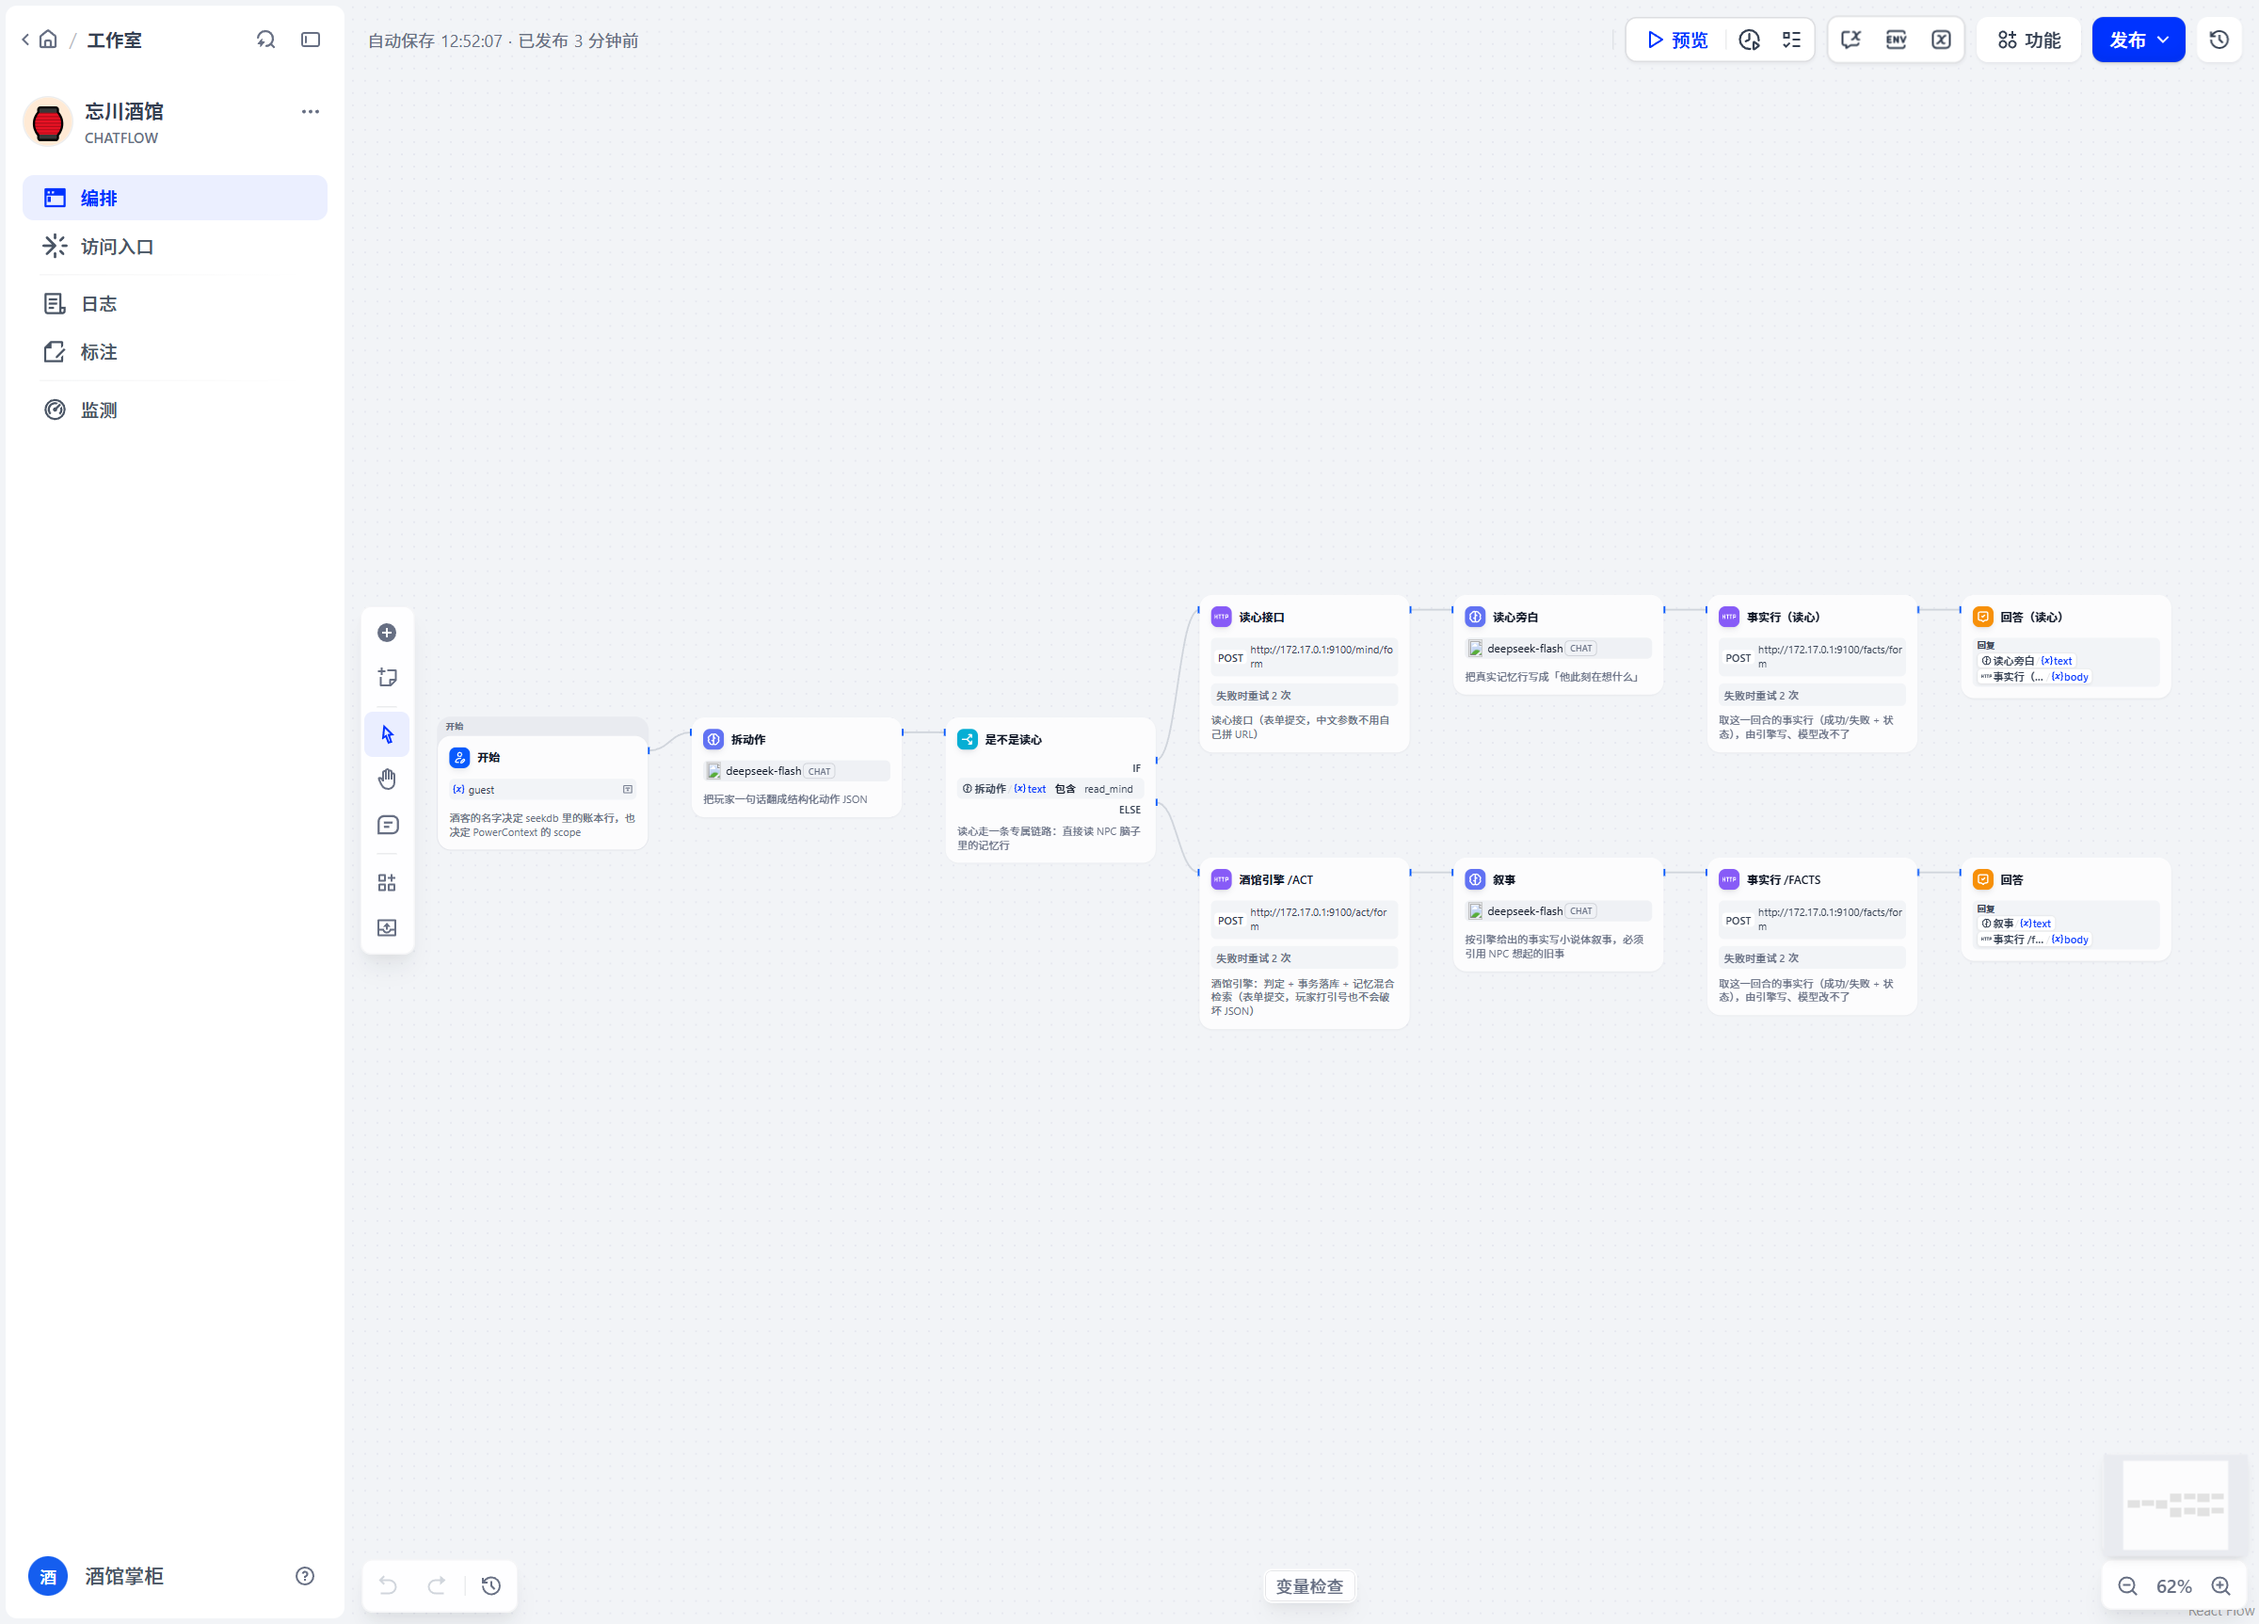
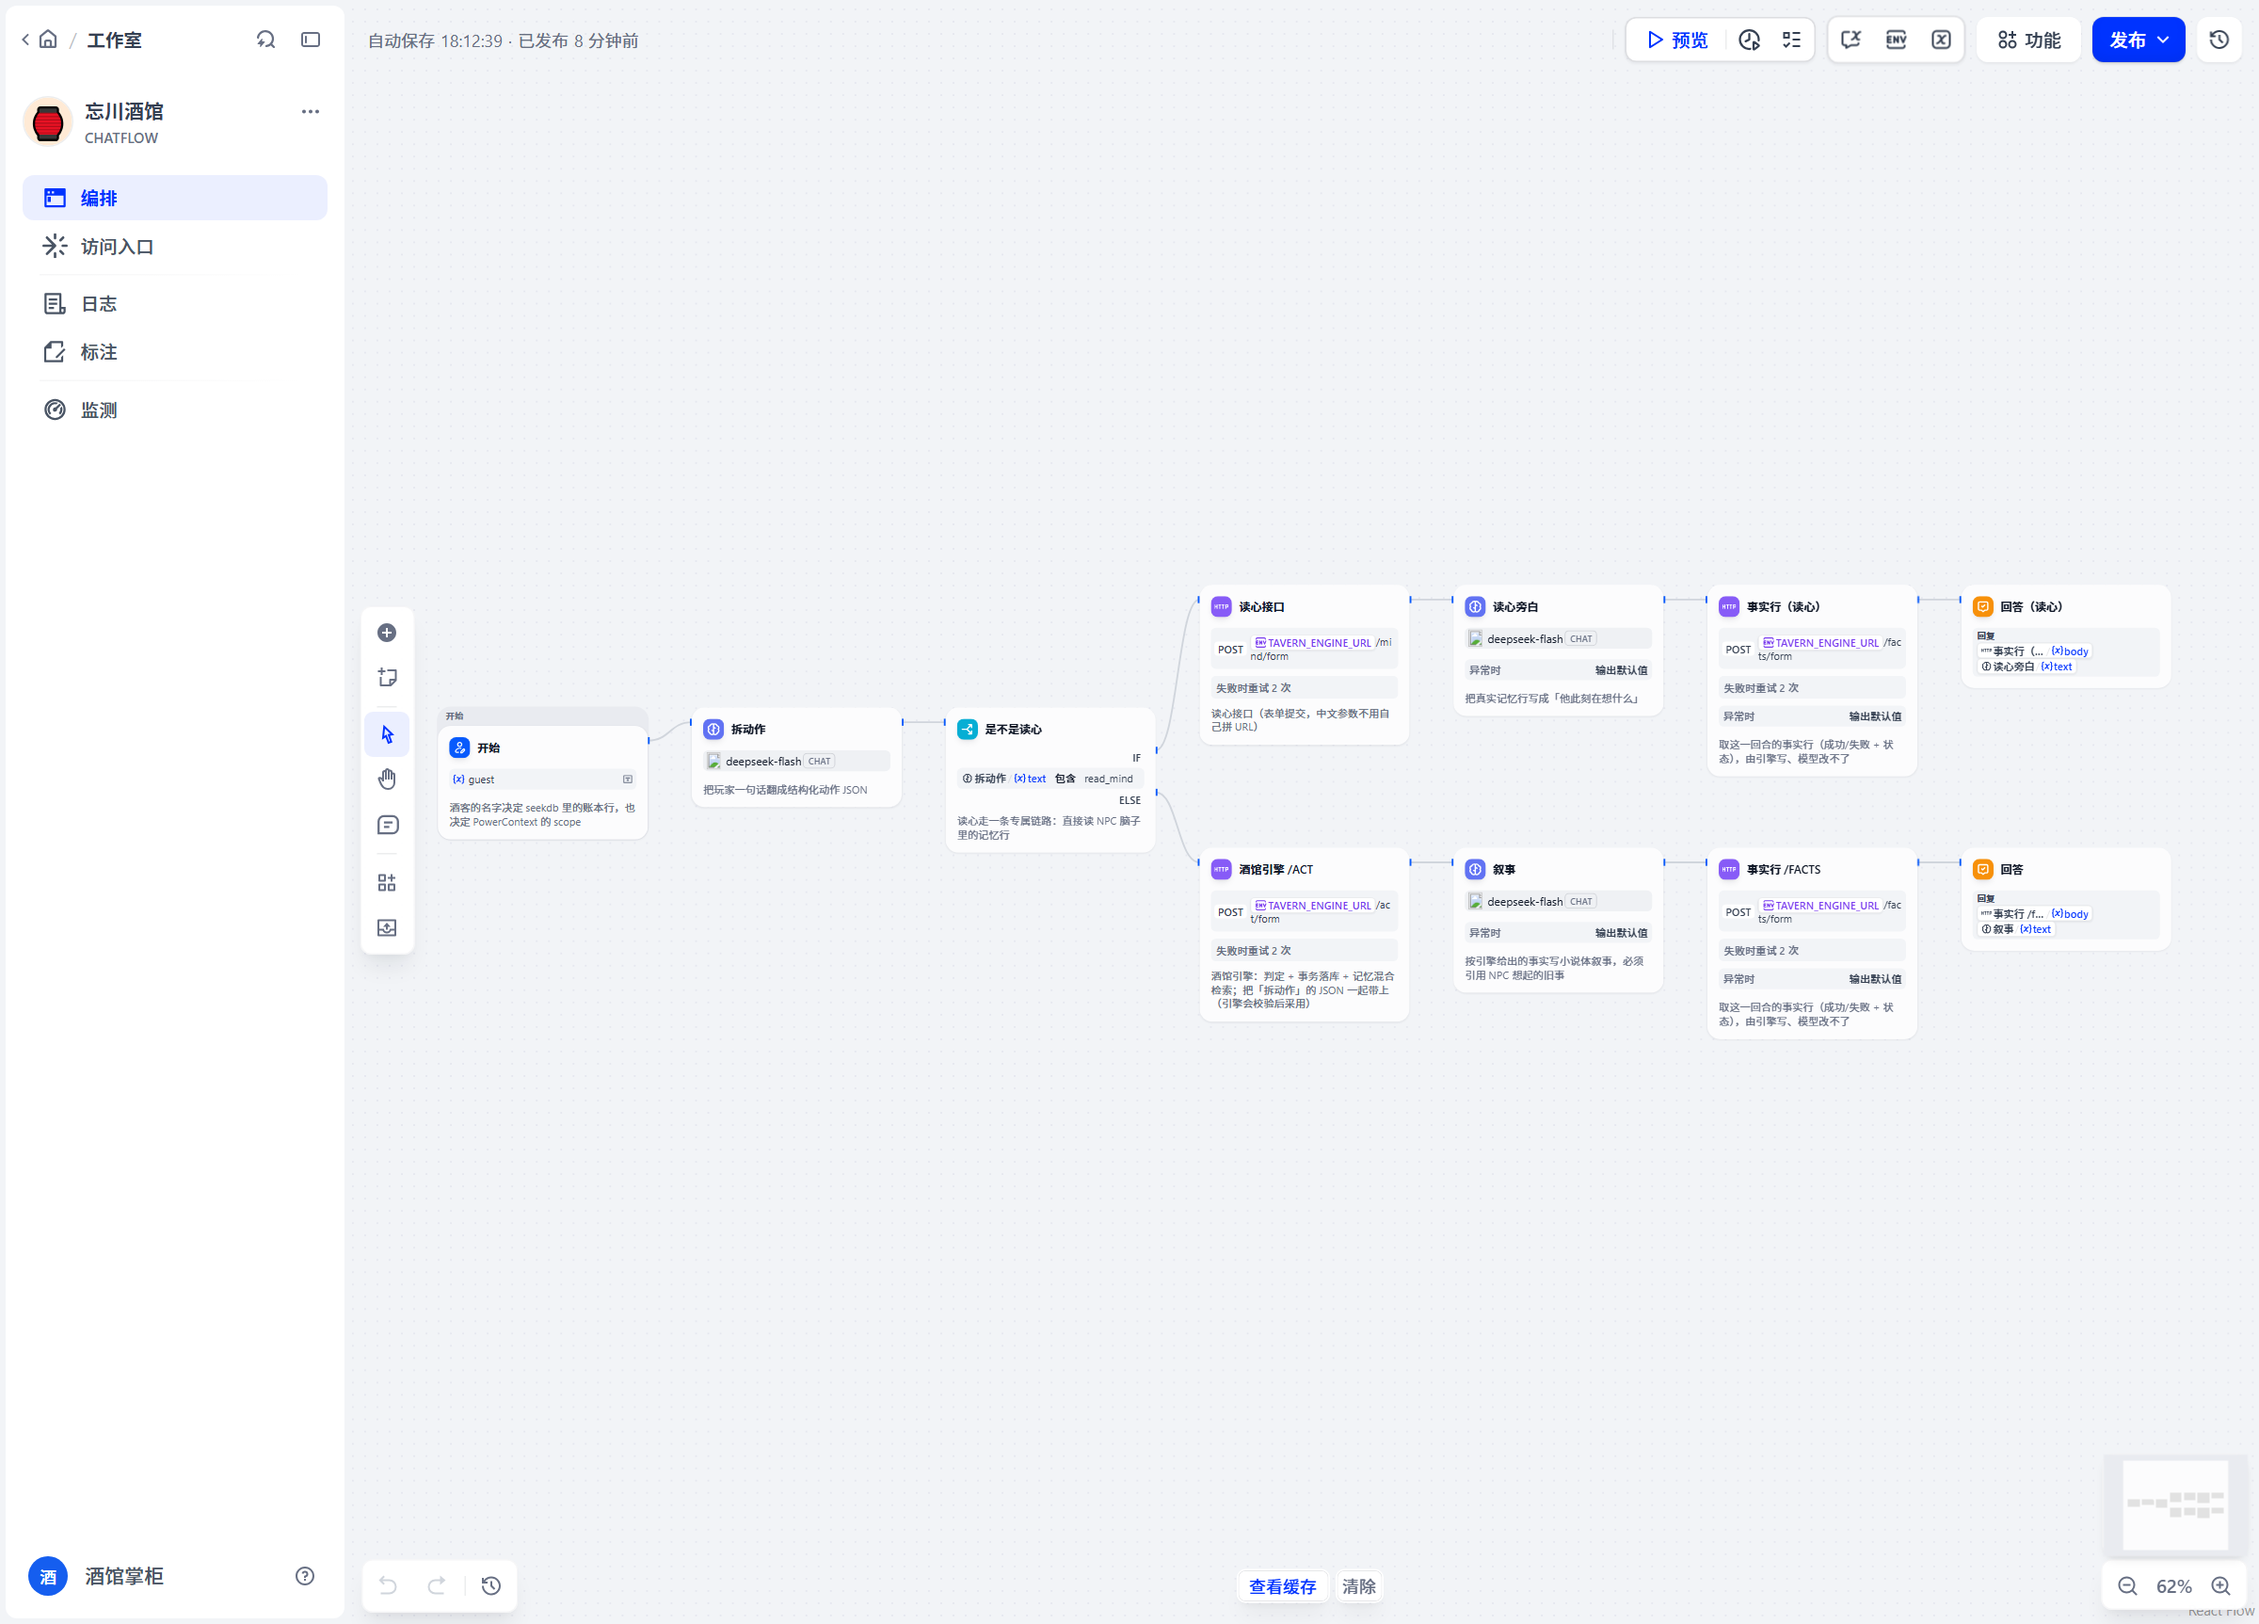
docs(dify): 把截图与 DSL 导出件全部刷新到当前版本（材料不能和实物对不上）
评审 FAQ 里有一条「导出的工作流与实际运行版本不一致」是常见失败原因。自查发现三处陈旧：

1. `docs/evidence/dify/dsl-export.yaml` 是加 `session` 字段之前导出的——README 却写着
   「与仓库 DSL 语义完全相同」。重新用 Dify 导出并逐字段比对：节点/连线/环境变量/features/
   每个节点的 model、url、body、answer、error_strategy、default_value 以及开场白 **0 处差异**。
2. 三张截图是旧回答格式（判定行在末尾）和旧开场白。已重拍：
   - `00-workflow-canvas.png`：11 节点编排
   - `01-new-conversation.png`：开场白（含「照着做就能看到三条规矩」引导）
   - `02-chat-memory.png`：买一壶桂花酿 → 回答**最前面**是判定行 +【阿箬的杯边话】，后面才是叙事
3. README / sample-walkthrough / limitations 里三处「回答末尾」改成「回答开头」，
   说明文案与新格式一致。

这轮没改玩法，改的是「提交材料必须与实际运行版本一致」。

diff --git a/dify/README.md b/dify/README.md
@@ -45,7 +45,7 @@
 2. **在事务里**改账本：铜板、好感、物品、风评、被记账次数；
 3. 让在场的 NPC **各写一条第一人称记忆**，还有概率变成传闻传播给没看见的人；
 4. **检索**此刻每个 NPC 会想起什么（全文 + 向量），把「想起的旧事」交给 Dify 写进台词；
-5. 把「这一回合到底发生了什么」以**纯文本事实行**附在回答末尾——**由引擎写，模型改不了**：
+5. 把「这一回合到底发生了什么」以**纯文本事实行**放在回答**最前面**——**由引擎写，模型改不了**：
    判定、以及这一回合**新揭开的秘密/杯边话/它记得你的上一回**，都在这一块里（见 §1.2.1）。
 
 说得含糊也玩得下去：只写「来壶酒」会按场景补成最便宜的那壶；「偷点东西」会落到柜台上那件旧物；
@@ -70,8 +70,8 @@
 另外两个长期后果：好感越过门槛，NPC 会**说出守了多年的秘密**（阿箬的信、老陶的眼睛、小满的猫）；
 风评攒够 25 分，你就是渡口的**「传说」**。
 
-> 判定与状态永远以引擎为准：Dify 的叙事节点只负责写小说，**事实行由 `/facts/form` 生成后直接拼进回答**，
-> 模型没有机会把失败写成成功，也没有机会“忘了说”那条秘密。一行回答长这样：
+> 判定与状态永远以引擎为准：Dify 的叙事节点只负责写小说，**事实行由 `/facts/form` 生成后拼在回答最前面**，
+> 模型没有机会把失败写成成功，也没有机会“忘了说”那条秘密。一条回答长这样（**先判定，再叙事**）：
 >
 > ```
 > 【第 2 回合 · 判定：成功】阿箬收下 3 个铜板，把桂花酿推到你面前。
@@ -362,7 +362,7 @@ python3 deploy/dify_walkthrough.py --base http://127.0.0.1:8080 \
 | 截图 | 说明 |
 | --- | --- |
 | ![编排](docs/evidence/dify/00-workflow-canvas.png) | Chatflow 的 11 个节点：开始 → 拆动作 → 是否读心（IF）→ 两条分支（引擎/读心 → 叙事 → 事实行）→ 回答 |
-| ![对话](docs/evidence/dify/02-chat-memory.png) | 真实对话：阿箬说「客人上回也是这么数铜板的，一个也没少给」——她引用的是上一局留在 seekdb 里的记忆 |
+| ![对话](docs/evidence/dify/02-chat-memory.png) | 真实对话：开场给出「照着做就能看到三条规矩」的引导；一壶桂花酿后，回答**最前面**是引擎写的判定行 + 【阿箬的杯边话】，后面才是叙事 |
 
 ### 5.1 跑不起来时：先跑 `07_doctor.sh`
 
@@ -439,7 +439,7 @@ bash scripts/07_doctor.sh
 | 10 | 打烊了，我该走了。 | closed | 结局「常客」；这一夜写成「传说」落进 seekdb 的 `tw_legend` |
 | 11 | （**新开一局**）我又来了，还认得我吗？ | observed | 开场就带出「账本上还有你上一回的记录」，`tavern_memory.mode=seekdb`——**跨会话记忆** |
 
-每一回合的回答末尾都会带一行引擎写的事实行（详见 `docs/evidence/dify-walkthrough.json`）：
+每一回合的回答**开头**就是一段引擎写的事实行（详见 `docs/evidence/dify-walkthrough.json`）：
 
 ```
 【第 4 回合 · 判定：失败】阿箬的手先按住了你的手腕：「客人，这个不卖。」

diff --git a/dify/docs/limitations.md b/dify/docs/limitations.md
@@ -35,7 +35,7 @@ Embedding 服务。原因：
   这三层都有自检用例（`docs/conformance.md` 的第 11、12、13 条附近）。
 
 模型负责的是**叙事与语气**（Dify 的 LLM 节点），不是判定。为了让这一点在界面上也可核对，
-Dify 的 Answer 节点除了叙事，还会拼上 `/facts/form` 返回的**事实行**：
+Dify 的 Answer 节点会在**叙事前面**拼上 `/facts/form` 返回的**事实行**：
 
 ```
 【第 4 回合 · 判定：失败】阿箬的手先按住了你的手腕：「客人，这个不卖。」
